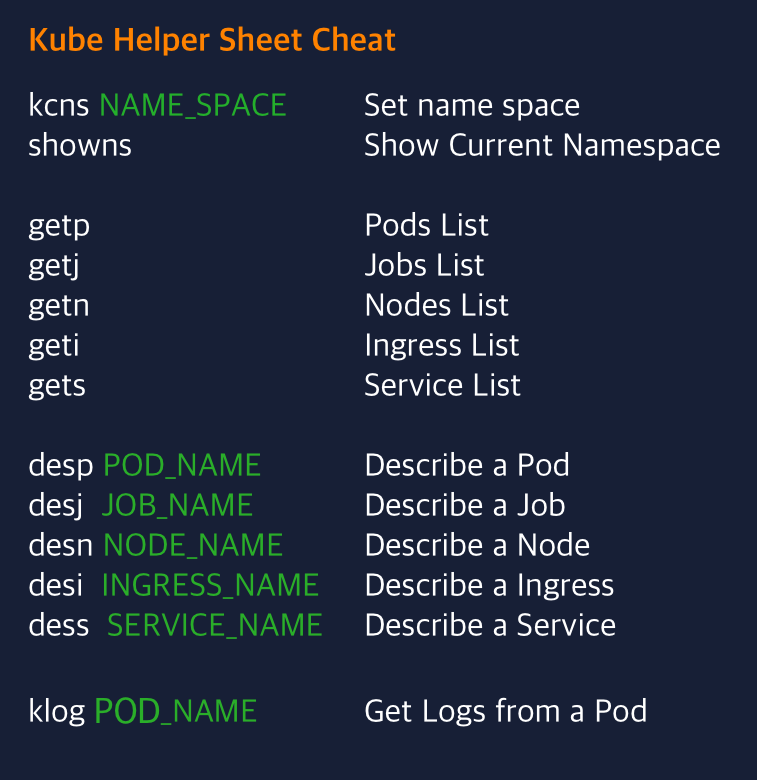
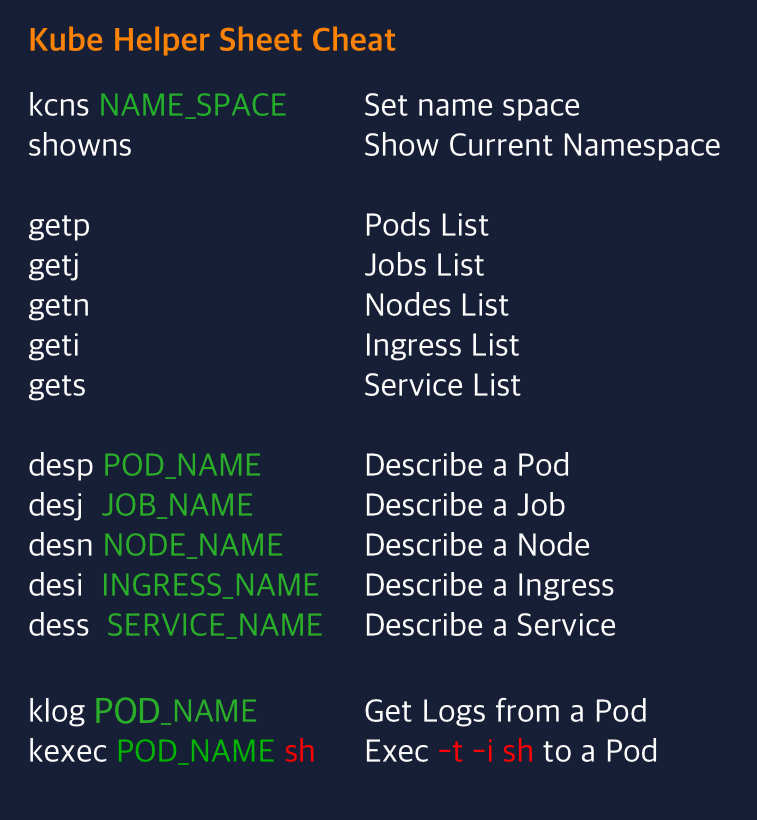
add kexec

diff --git a/README.md b/README.md
@@ -36,7 +36,7 @@ source  YOUR_PATH/kube_helper.sh
 | `desi  INGRESS_NAME` | Describe a Ingress |
 | `dess  SERVICE_NAME` | Describe a Service |
 | `klog POD_NAME` | Get logs from a Pod |
-
+| `kexec POD_NAME sh` | exec -t -i sh to a Pod |
 
 ![kubectl helper cheat sheet](https://raw.githubusercontent.com/heart/Kubectl-Helper/master/CheatSheet.png)
 
